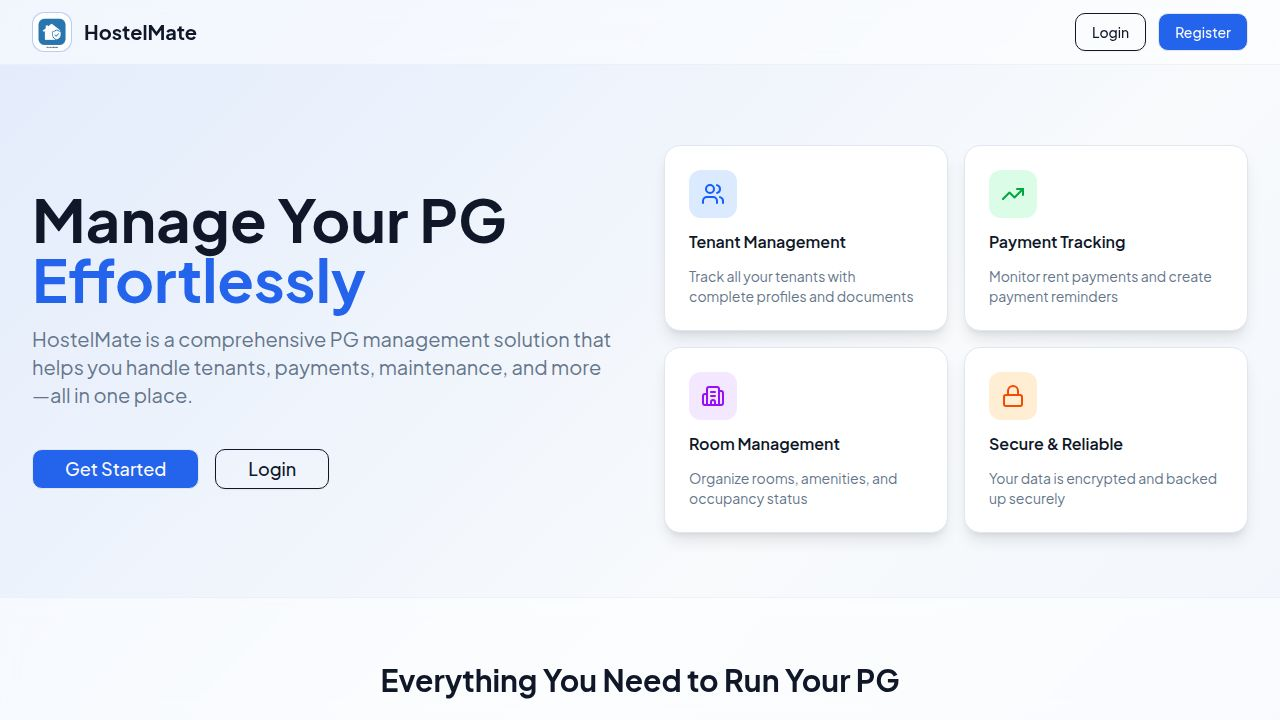
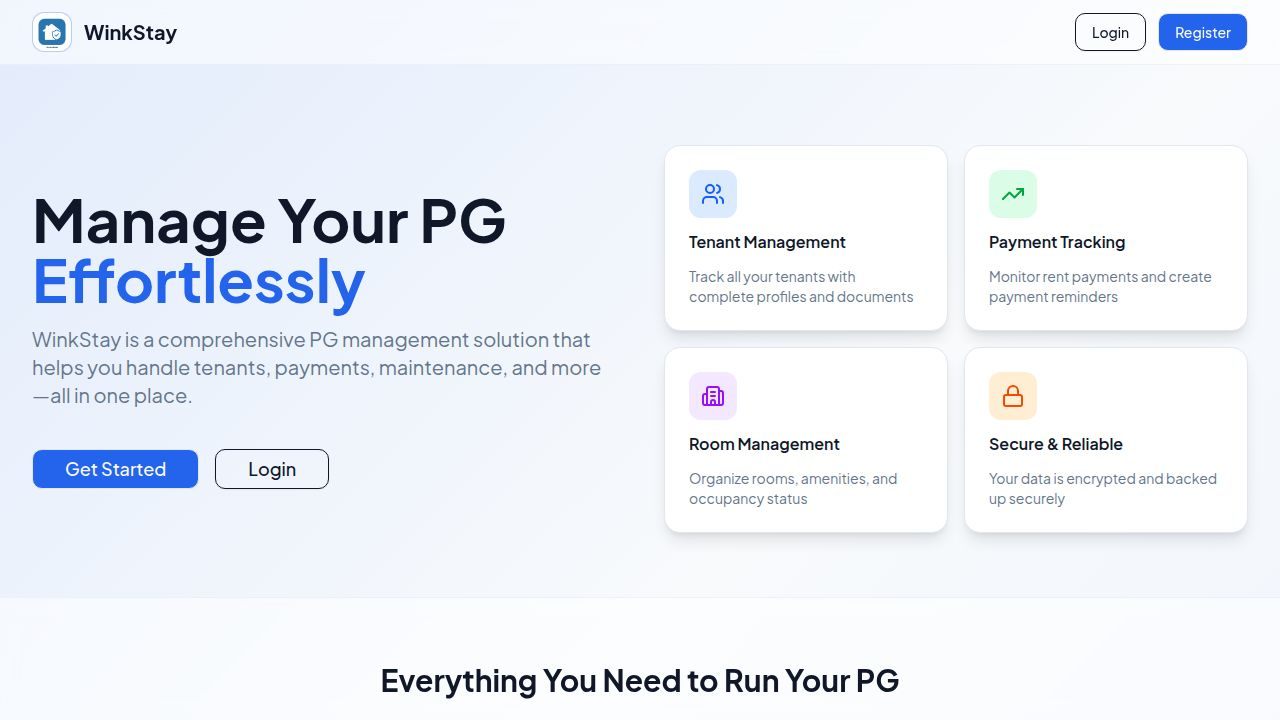
Update application name from HostelMate to WinkStay everywhere
Replace all instances of "HostelMate" with "WinkStay" across HTML, JSON, React components, and email templates.

Replit-Commit-Author: Agent
Replit-Commit-Session-Id: 61ca6955-dfac-41ca-a3ba-9f77b2bf6213
Replit-Commit-Checkpoint-Type: intermediate_checkpoint
Replit-Commit-Event-Id: e141180c-8a33-4eea-b7ba-3757a6473986
Replit-Commit-Screenshot-Url: https://storage.googleapis.com/screenshot-production-us-central1/71d71e51-0e8b-4571-9188-5f37926598af/61ca6955-dfac-41ca-a3ba-9f77b2bf6213/M0VTMDV

Changed region(s): [[0.0312, 0.4583, 0.4688, 0.4889], [0.0625, 0.0306, 0.1562, 0.0611]]

diff --git a/client/src/pages/Home.tsx b/client/src/pages/Home.tsx
@@ -12,9 +12,9 @@ export default function Home() {
         <div className="max-w-7xl mx-auto px-4 sm:px-6 lg:px-8 h-16 flex items-center justify-between">
           <div className="flex items-center gap-3">
             <div className="w-10 h-10 bg-primary/10 rounded-lg flex items-center justify-center border border-primary/20">
-              <img src={appIcon} alt="HostelMate" className="w-full h-full object-cover rounded-lg" />
+              <img src={appIcon} alt="WinkStay" className="w-full h-full object-cover rounded-lg" />
             </div>
-            <h1 className="text-xl font-bold text-foreground">HostelMate</h1>
+            <h1 className="text-xl font-bold text-foreground">WinkStay</h1>
           </div>
           <div className="flex gap-3">
             <Button onClick={() => navigate("/login")} variant="outline" data-testid="button-nav-login">
@@ -37,7 +37,7 @@ export default function Home() {
                 Manage Your PG <span className="text-primary">Effortlessly</span>
               </h2>
               <p className="text-xl text-muted-foreground">
-                HostelMate is a comprehensive PG management solution that helps you handle tenants, payments, maintenance, and more—all in one place.
+                WinkStay is a comprehensive PG management solution that helps you handle tenants, payments, maintenance, and more—all in one place.
               </p>
             </div>
 
@@ -116,7 +116,7 @@ export default function Home() {
       <div className="bg-primary/5 border-t border-border/50">
         <div className="max-w-4xl mx-auto px-4 sm:px-6 lg:px-8 py-16 text-center">
           <h2 className="text-4xl font-bold text-foreground mb-4">Ready to Simplify Your PG Management?</h2>
-          <p className="text-lg text-muted-foreground mb-8">Join thousands of PG owners using HostelMate to manage their properties efficiently</p>
+          <p className="text-lg text-muted-foreground mb-8">Join thousands of PG owners using WinkStay to manage their properties efficiently</p>
           <Button onClick={() => navigate("/register")} size="lg" className="text-lg px-12" data-testid="button-cta-register">
             Start Your Free Trial
           </Button>
@@ -126,7 +126,7 @@ export default function Home() {
       {/* Footer */}
       <footer className="border-t border-border/50 bg-card/30 backdrop-blur-sm">
         <div className="max-w-7xl mx-auto px-4 sm:px-6 lg:px-8 py-8 text-center text-muted-foreground">
-          <p>&copy; 2024 HostelMate. All rights reserved.</p>
+          <p>&copy; 2024 WinkStay. All rights reserved.</p>
         </div>
       </footer>
     </div>

diff --git a/server/email.ts b/server/email.ts
@@ -34,7 +34,7 @@ export async function sendOtpEmail(email: string, otp: string, purpose: string =
     const htmlContent = `
       <div style="font-family: Arial, sans-serif; max-width: 600px; margin: 0 auto;">
         <div style="background: linear-gradient(135deg, #667eea 0%, #764ba2 100%); color: white; padding: 20px; text-align: center; border-radius: 8px 8px 0 0;">
-          <h1 style="margin: 0;">HostelMate</h1>
+          <h1 style="margin: 0;">WinkStay</h1>
         </div>
         <div style="background: #f9f9f9; padding: 30px; border-radius: 0 0 8px 8px; border: 1px solid #e0e0e0;">
           <h2 style="color: #333; margin-top: 0;">${subject}</h2>
@@ -47,7 +47,7 @@ export async function sendOtpEmail(email: string, otp: string, purpose: string =
           </div>
 
           <p style="color: #666; font-size: 13px; margin-bottom: 20px;">
-            Do not share this code with anyone. HostelMate will never ask for your OTP.
+            Do not share this code with anyone. WinkStay will never ask for your OTP.
           </p>
           
           <hr style="border: none; border-top: 1px solid #e0e0e0; margin: 20px 0;">
@@ -56,7 +56,7 @@ export async function sendOtpEmail(email: string, otp: string, purpose: string =
             If you didn't request this code, please ignore this email.
           </p>
           <p style="color: #999; font-size: 12px; margin: 0;">
-            © 2025 HostelMate. All rights reserved.
+            © 2025 WinkStay. All rights reserved.
           </p>
         </div>
       </div>

diff --git a/client/index.html b/client/index.html
@@ -4,13 +4,13 @@
     <meta charset="UTF-8" />
     <meta name="viewport" content="width=device-width, initial-scale=1.0, maximum-scale=1, user-scalable=no" />
 
-    <meta property="og:title" content="HostelMate - PG Management" />
+    <meta property="og:title" content="WinkStay - PG Management" />
     <meta property="og:description" content="Smart PG Hostel Management Solution for Owners" />
     <meta property="og:type" content="website" />
     <meta property="og:image" content="https://replit.com/public/images/opengraph.png" />
     <meta name="twitter:card" content="summary_large_image" />
     <meta name="twitter:site" content="@replit" />
-    <meta name="twitter:title" content="HostelMate - PG Management" />
+    <meta name="twitter:title" content="WinkStay - PG Management" />
     <meta name="twitter:description" content="Smart PG Hostel Management Solution for Owners" />
     <meta name="twitter:image" content="https://replit.com/public/images/opengraph.png" />
 

diff --git a/client/src/pages/Login.tsx b/client/src/pages/Login.tsx
@@ -63,9 +63,9 @@ export default function Login() {
       >
         <div className="text-center space-y-2">
           <div className="bg-primary/10 w-20 h-20 rounded-2xl flex items-center justify-center mx-auto mb-6 shadow-lg border border-primary/20">
-             <img src={appIcon} alt="HostelMate Logo" className="w-full h-full object-cover rounded-2xl" />
+             <img src={appIcon} alt="WinkStay Logo" className="w-full h-full object-cover rounded-2xl" />
           </div>
-          <h1 className="text-3xl font-bold tracking-tight text-foreground">HostelMate</h1>
+          <h1 className="text-3xl font-bold tracking-tight text-foreground">WinkStay</h1>
           <p className="text-muted-foreground">Manage your PG smarter, not harder.</p>
         </div>
 

diff --git a/client/src/components/layout/Sidebar.tsx b/client/src/components/layout/Sidebar.tsx
@@ -73,10 +73,10 @@ export default function Sidebar() {
           className="flex items-center gap-3 cursor-pointer rounded-lg hover:bg-secondary/50 transition-colors p-2 -m-2 mb-4"
         >
           <div className="w-10 h-10 bg-primary/10 rounded-lg flex items-center justify-center border border-primary/20">
-            <img src={appIcon} alt="HostelMate" className="w-full h-full object-cover rounded-lg" />
+            <img src={appIcon} alt="WinkStay" className="w-full h-full object-cover rounded-lg" />
           </div>
           <div>
-            <h1 className="font-bold text-lg text-foreground">HostelMate</h1>
+            <h1 className="font-bold text-lg text-foreground">WinkStay</h1>
           </div>
         </div>
         {isOwner && (

diff --git a/client/src/components/layout/MobileLayout.tsx b/client/src/components/layout/MobileLayout.tsx
@@ -117,10 +117,10 @@ export default function MobileLayout({
             className="flex items-center gap-3 cursor-pointer mb-4"
           >
             <div className="w-10 h-10 bg-primary/10 rounded-lg flex items-center justify-center border border-primary/20">
-              <img src={appIcon} alt="HostelMate" className="w-full h-full object-cover rounded-lg" />
+              <img src={appIcon} alt="WinkStay" className="w-full h-full object-cover rounded-lg" />
             </div>
             <div>
-              <h1 className="font-bold text-lg text-foreground">HostelMate</h1>
+              <h1 className="font-bold text-lg text-foreground">WinkStay</h1>
             </div>
           </div>
           {isOwner && (

diff --git a/client/src/pages/Register.tsx b/client/src/pages/Register.tsx
@@ -173,7 +173,7 @@ export default function Register() {
               {step === 1 && (
                 <>
                   <div className="space-y-4">
-                    <p className="text-sm text-muted-foreground mb-4">Select how you'll use HostelMate</p>
+                    <p className="text-sm text-muted-foreground mb-4">Select how you'll use WinkStay</p>
                     
                     <div 
                       onClick={() => handleInputChange("userType", "owner")}

diff --git a/replit.md b/replit.md
@@ -1,8 +1,8 @@
-# HostelMate - PG Management System
+# WinkStay - PG Management System
 
 ## Overview
 
-HostelMate is a comprehensive PG (Paying Guest) hostel management application designed for hostel owners and tenants. The system provides tools for managing rooms, tenants, payments, complaints, maintenance schedules, and reporting. It features a dual-interface design with separate dashboards for owners and tenants, enabling efficient hostel operations and transparent communication.
+WinkStay is a comprehensive PG (Paying Guest) hostel management application designed for hostel owners and tenants. The system provides tools for managing rooms, tenants, payments, complaints, maintenance schedules, and reporting. It features a dual-interface design with separate dashboards for owners and tenants, enabling efficient hostel operations and transparent communication.
 
 The application is built as a full-stack web application with a React-based frontend and Express.js backend, using PostgreSQL for data persistence through Drizzle ORM.
 
